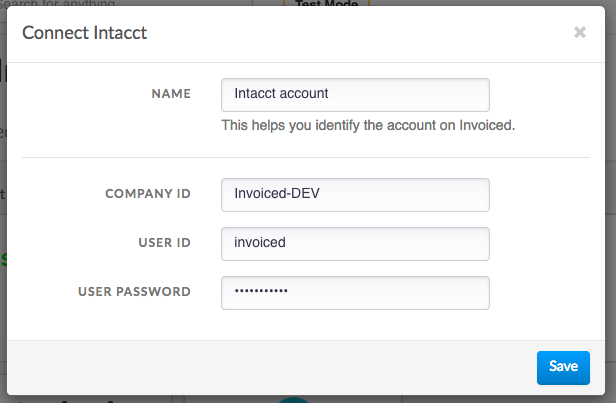
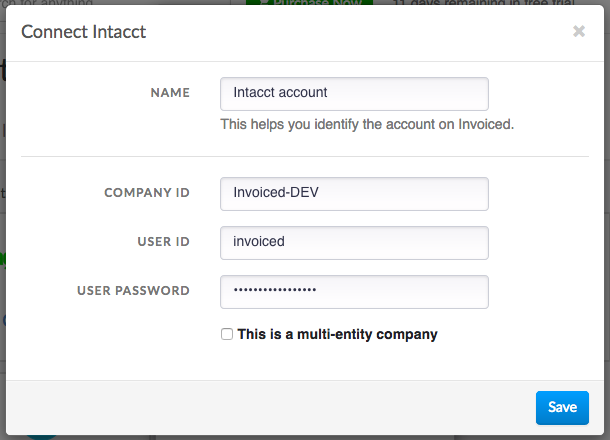
update intacct doc with latest line item dimension and multi-entity settings

diff --git a/accounting/intacct.md b/accounting/intacct.md
@@ -65,7 +65,7 @@ The next step is to set up a web services user for Invoiced on Intacct. It is re
 
    [![Connect Intacct](../img/connect-intacct.png)](../img/connect-intacct.png)
 
-3. Enter in the Intacct company ID, username, and password for your Invoiced web services user created earlier.
+3. Enter in the Intacct company ID, username, and password for your Invoiced web services user created earlier. If you are using a shared multi-entity account then you can also enter in the entity location ID you would like the connection to use.
 
 4. Click **Save**. Intacct is now connected! Next you will likely want to configure the integration before using it.
 
@@ -83,7 +83,7 @@ Now you can configure the accounting sync in order to tell Invoiced how to map t
 
 3. Select the undeposited funds account label from your G/L on Intacct. This is where payments received through Invoiced will be mapped.
 
-4. You can optionally enter in a location ID and/or department ID if you are operating a multi-entity Intacct company.
+4. You can optionally enter in location ID and/or department ID dimensions if you want to tag the line items on Intacct that are created by the Invoiced sync with these dimensions. If you are importing invoices from Intacct then the dimension settings are irrelevant.
 
 5. Click **Save**.
 
